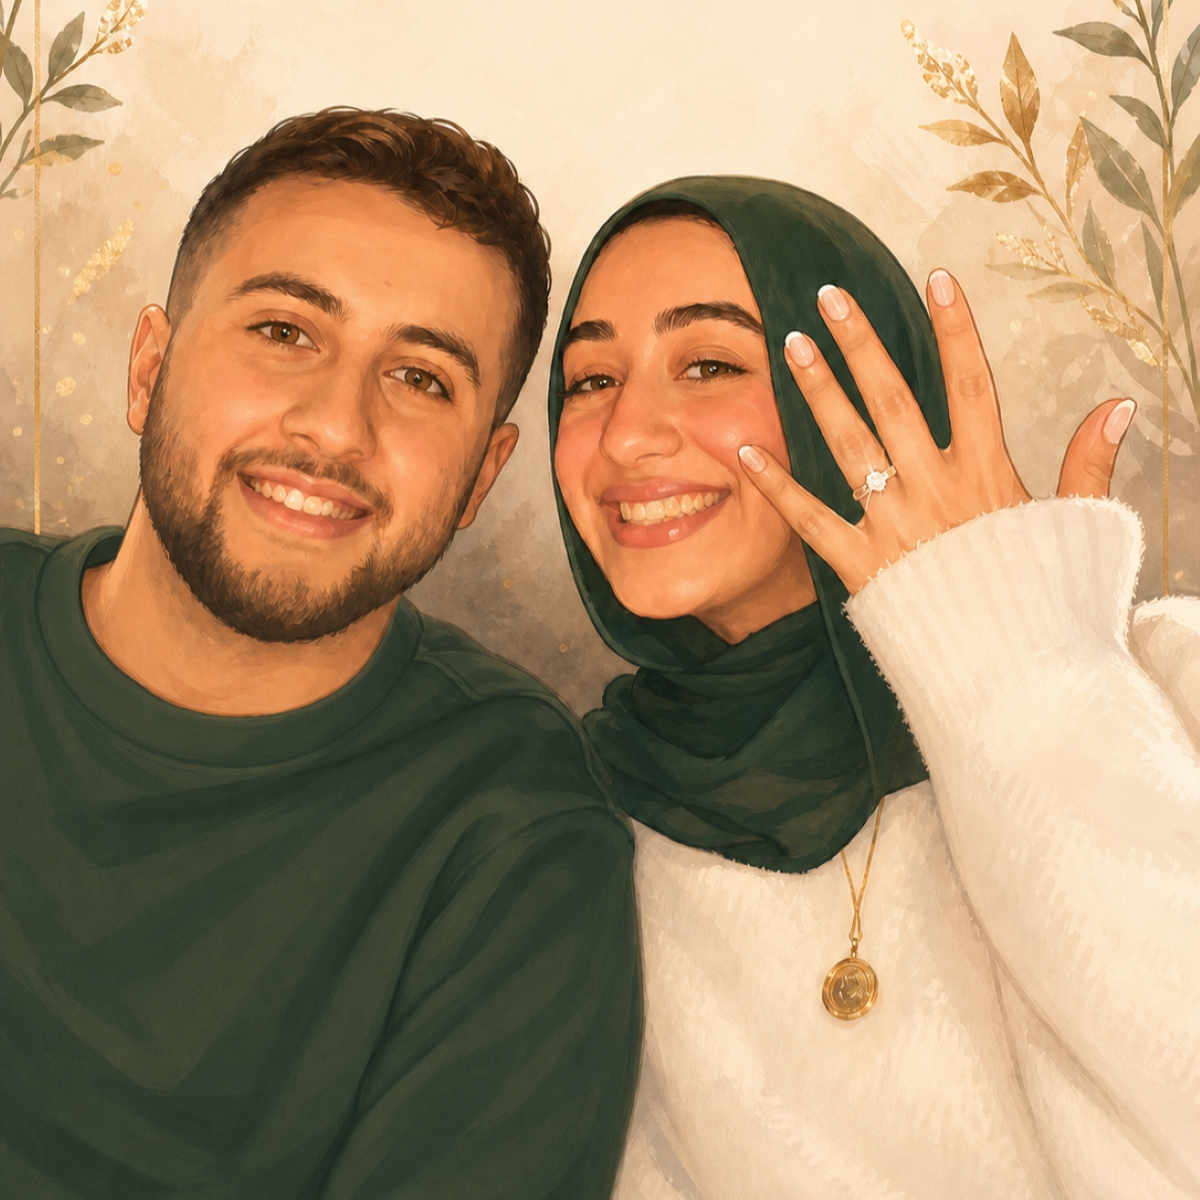
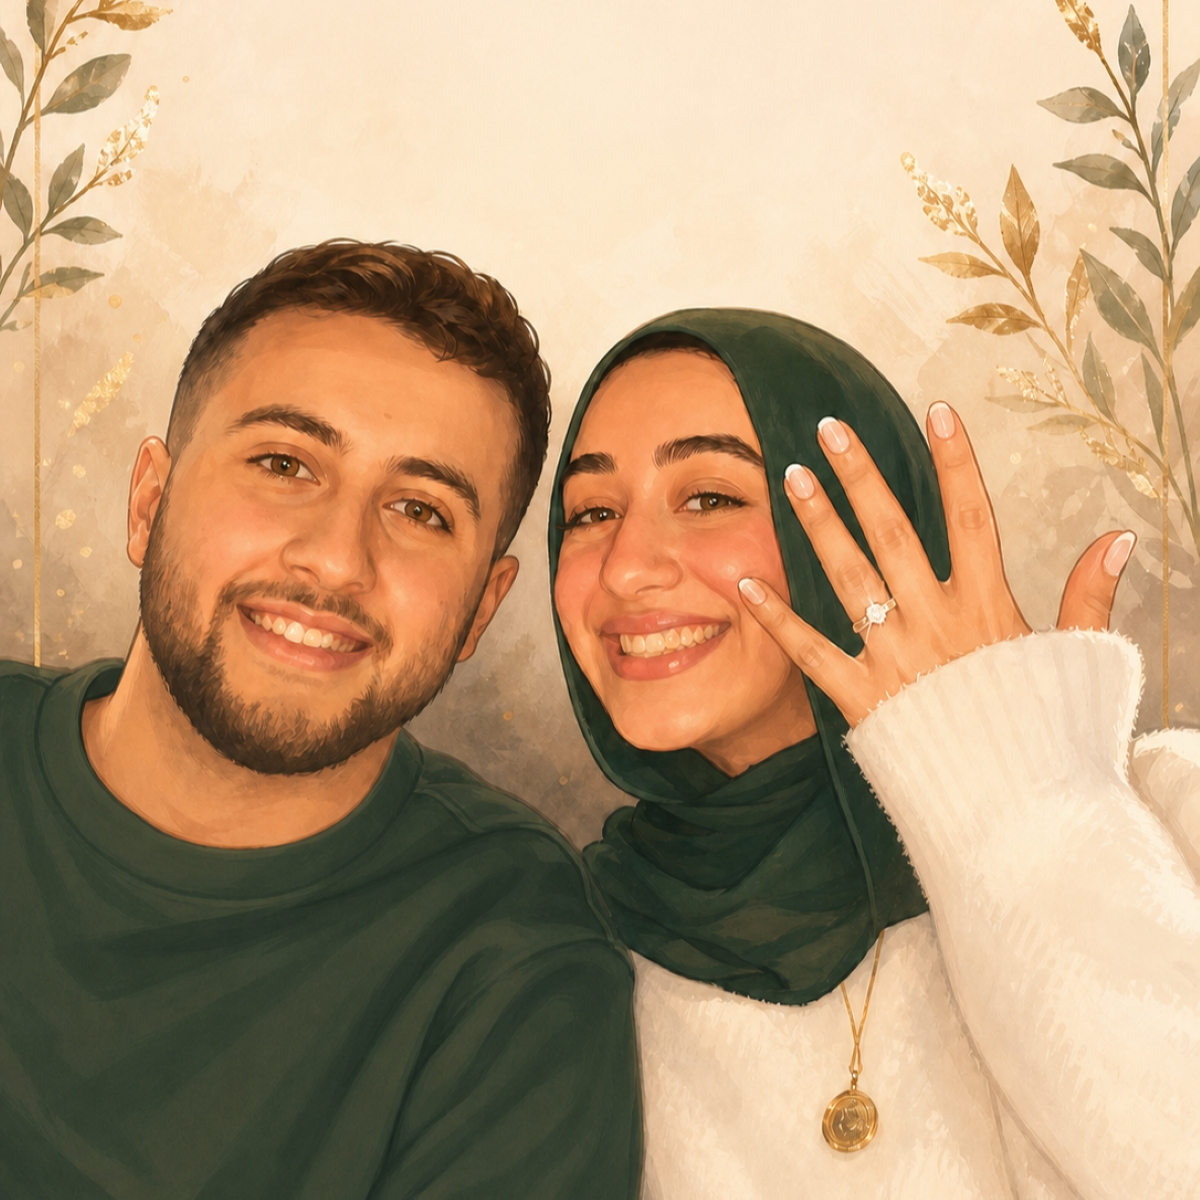
Add IP

diff --git a/obj/Debug/net10.0/dotnet.js b/obj/Debug/net10.0/dotnet.js
@@ -5,7 +5,7 @@ var e=!1;const t=async()=>WebAssembly.validate(new Uint8Array([0,97,115,109,1,0,
   "mainAssemblyName": "INV",
   "applicationEnvironment": "Development",
   "resources": {
-    "hash": "sha256-cxUgvhzNmkOpwjHvZ6PAZyrFHxA4rats3d23zEGM1yk=",
+    "hash": "sha256-YEnElKt9ODK+h9QTDcw6jRAhh1hXxR9qNBVl9b23ESA=",
     "jsModuleNative": [
       {
         "name": "dotnet.native.rjbmzc4jpg.js"
@@ -1242,16 +1242,16 @@ var e=!1;const t=async()=>WebAssembly.validate(new Uint8Array([0,97,115,109,1,0,
       },
       {
         "virtualPath": "INV.wasm",
-        "name": "INV.yxo8emk8hq.wasm",
-        "hash": "sha256-uqlwkSI5N4Cn4F4JpNk8ItQUdfAJcuPVCYzYSSfFh+4=",
+        "name": "INV.ibwmaengd3.wasm",
+        "hash": "sha256-Hv9c86CBFp5gHgHBlUt50Dlf6CzpH4WgN90qFgb0rkM=",
         "cache": "force-cache"
       }
     ],
     "pdb": [
       {
         "virtualPath": "INV.pdb",
-        "name": "INV.yjgciln11h.pdb",
-        "hash": "sha256-zlQzRHBOHCwIxPTT+dv3hiviyK/fWnqJncZXlUe62+M=",
+        "name": "INV.2ykzyufb9l.pdb",
+        "hash": "sha256-yp47QiM0kstESM6QHd4pr+nG/hAchOV5+FeivIl/bZc=",
         "cache": "force-cache"
       }
     ],

diff --git a/wwwroot/index.html b/wwwroot/index.html
@@ -54,11 +54,17 @@
         }
 
         // ── Analytics: count one visit per browser session ───
-        function countVisit() {
+        async function countVisit() {
             if (sessionStorage.getItem('v')) return;
             sessionStorage.setItem('v', '1');
             const url = 'https://script.google.com/macros/s/AKfycbxdztj6hVbv5g6jI9exXrESUBTGmNE4yy8hbEFYJOv7NfQHsodKPLlhDCMc7S7jw7RT/exec';
-            fetch(url, { method: 'POST', mode: 'no-cors', body: JSON.stringify({ type: 'visit' }) }).catch(() => {});
+            let ip = '';
+            try {
+                const r = await fetch('https://api.ipify.org?format=json');
+                const j = await r.json();
+                ip = j.ip || '';
+            } catch (_) {}
+            fetch(url, { method: 'POST', mode: 'no-cors', body: JSON.stringify({ type: 'visit', ip }) }).catch(() => {});
         }
 
         // ── Signature canvas ──────────────────────────────────

diff --git a/docs/google-apps-script.js b/docs/google-apps-script.js
@@ -25,7 +25,7 @@ const ANALYTICS_SHEET = 'Analytics';
 const SONG_HEADERS      = ['Timestamp', 'Guest Name', 'Song Title', 'Artist', 'Why This Song'];
 const BLESSING_HEADERS  = ['Timestamp', 'Guest Name', 'Message'];
 const GUESTBOOK_HEADERS = ['Timestamp', 'Guest Name', 'Signature (base64 PNG)'];
-const ANALYTICS_HEADERS = ['Timestamp'];
+const ANALYTICS_HEADERS = ['Timestamp', 'IP Address'];
 
 function doPost(e) {
     try {
@@ -57,7 +57,7 @@ function doPost(e) {
 
         if (data.type === 'visit') {
             const sheet = getOrCreateNamedSheet(ANALYTICS_SHEET, ANALYTICS_HEADERS);
-            sheet.appendRow([new Date().toLocaleString()]);
+            sheet.appendRow([new Date().toLocaleString(), data.ip || '']);
             return jsonResponse({ success: true, type: 'visit' });
         }
 

diff --git a/obj/Debug/net10.0/INV.AssemblyInfo.cs b/obj/Debug/net10.0/INV.AssemblyInfo.cs
@@ -13,7 +13,7 @@ using System.Reflection;
 [assembly: System.Reflection.AssemblyCompanyAttribute("INV")]
 [assembly: System.Reflection.AssemblyConfigurationAttribute("Debug")]
 [assembly: System.Reflection.AssemblyFileVersionAttribute("1.0.0.0")]
-[assembly: System.Reflection.AssemblyInformationalVersionAttribute("1.0.0+1301420869eba008c5011cf63cec76ec17b0bf7d")]
+[assembly: System.Reflection.AssemblyInformationalVersionAttribute("1.0.0+6a999f87f21480bb294f7383c59d607dc42c3f54")]
 [assembly: System.Reflection.AssemblyProductAttribute("INV")]
 [assembly: System.Reflection.AssemblyTitleAttribute("INV")]
 [assembly: System.Reflection.AssemblyVersionAttribute("1.0.0.0")]